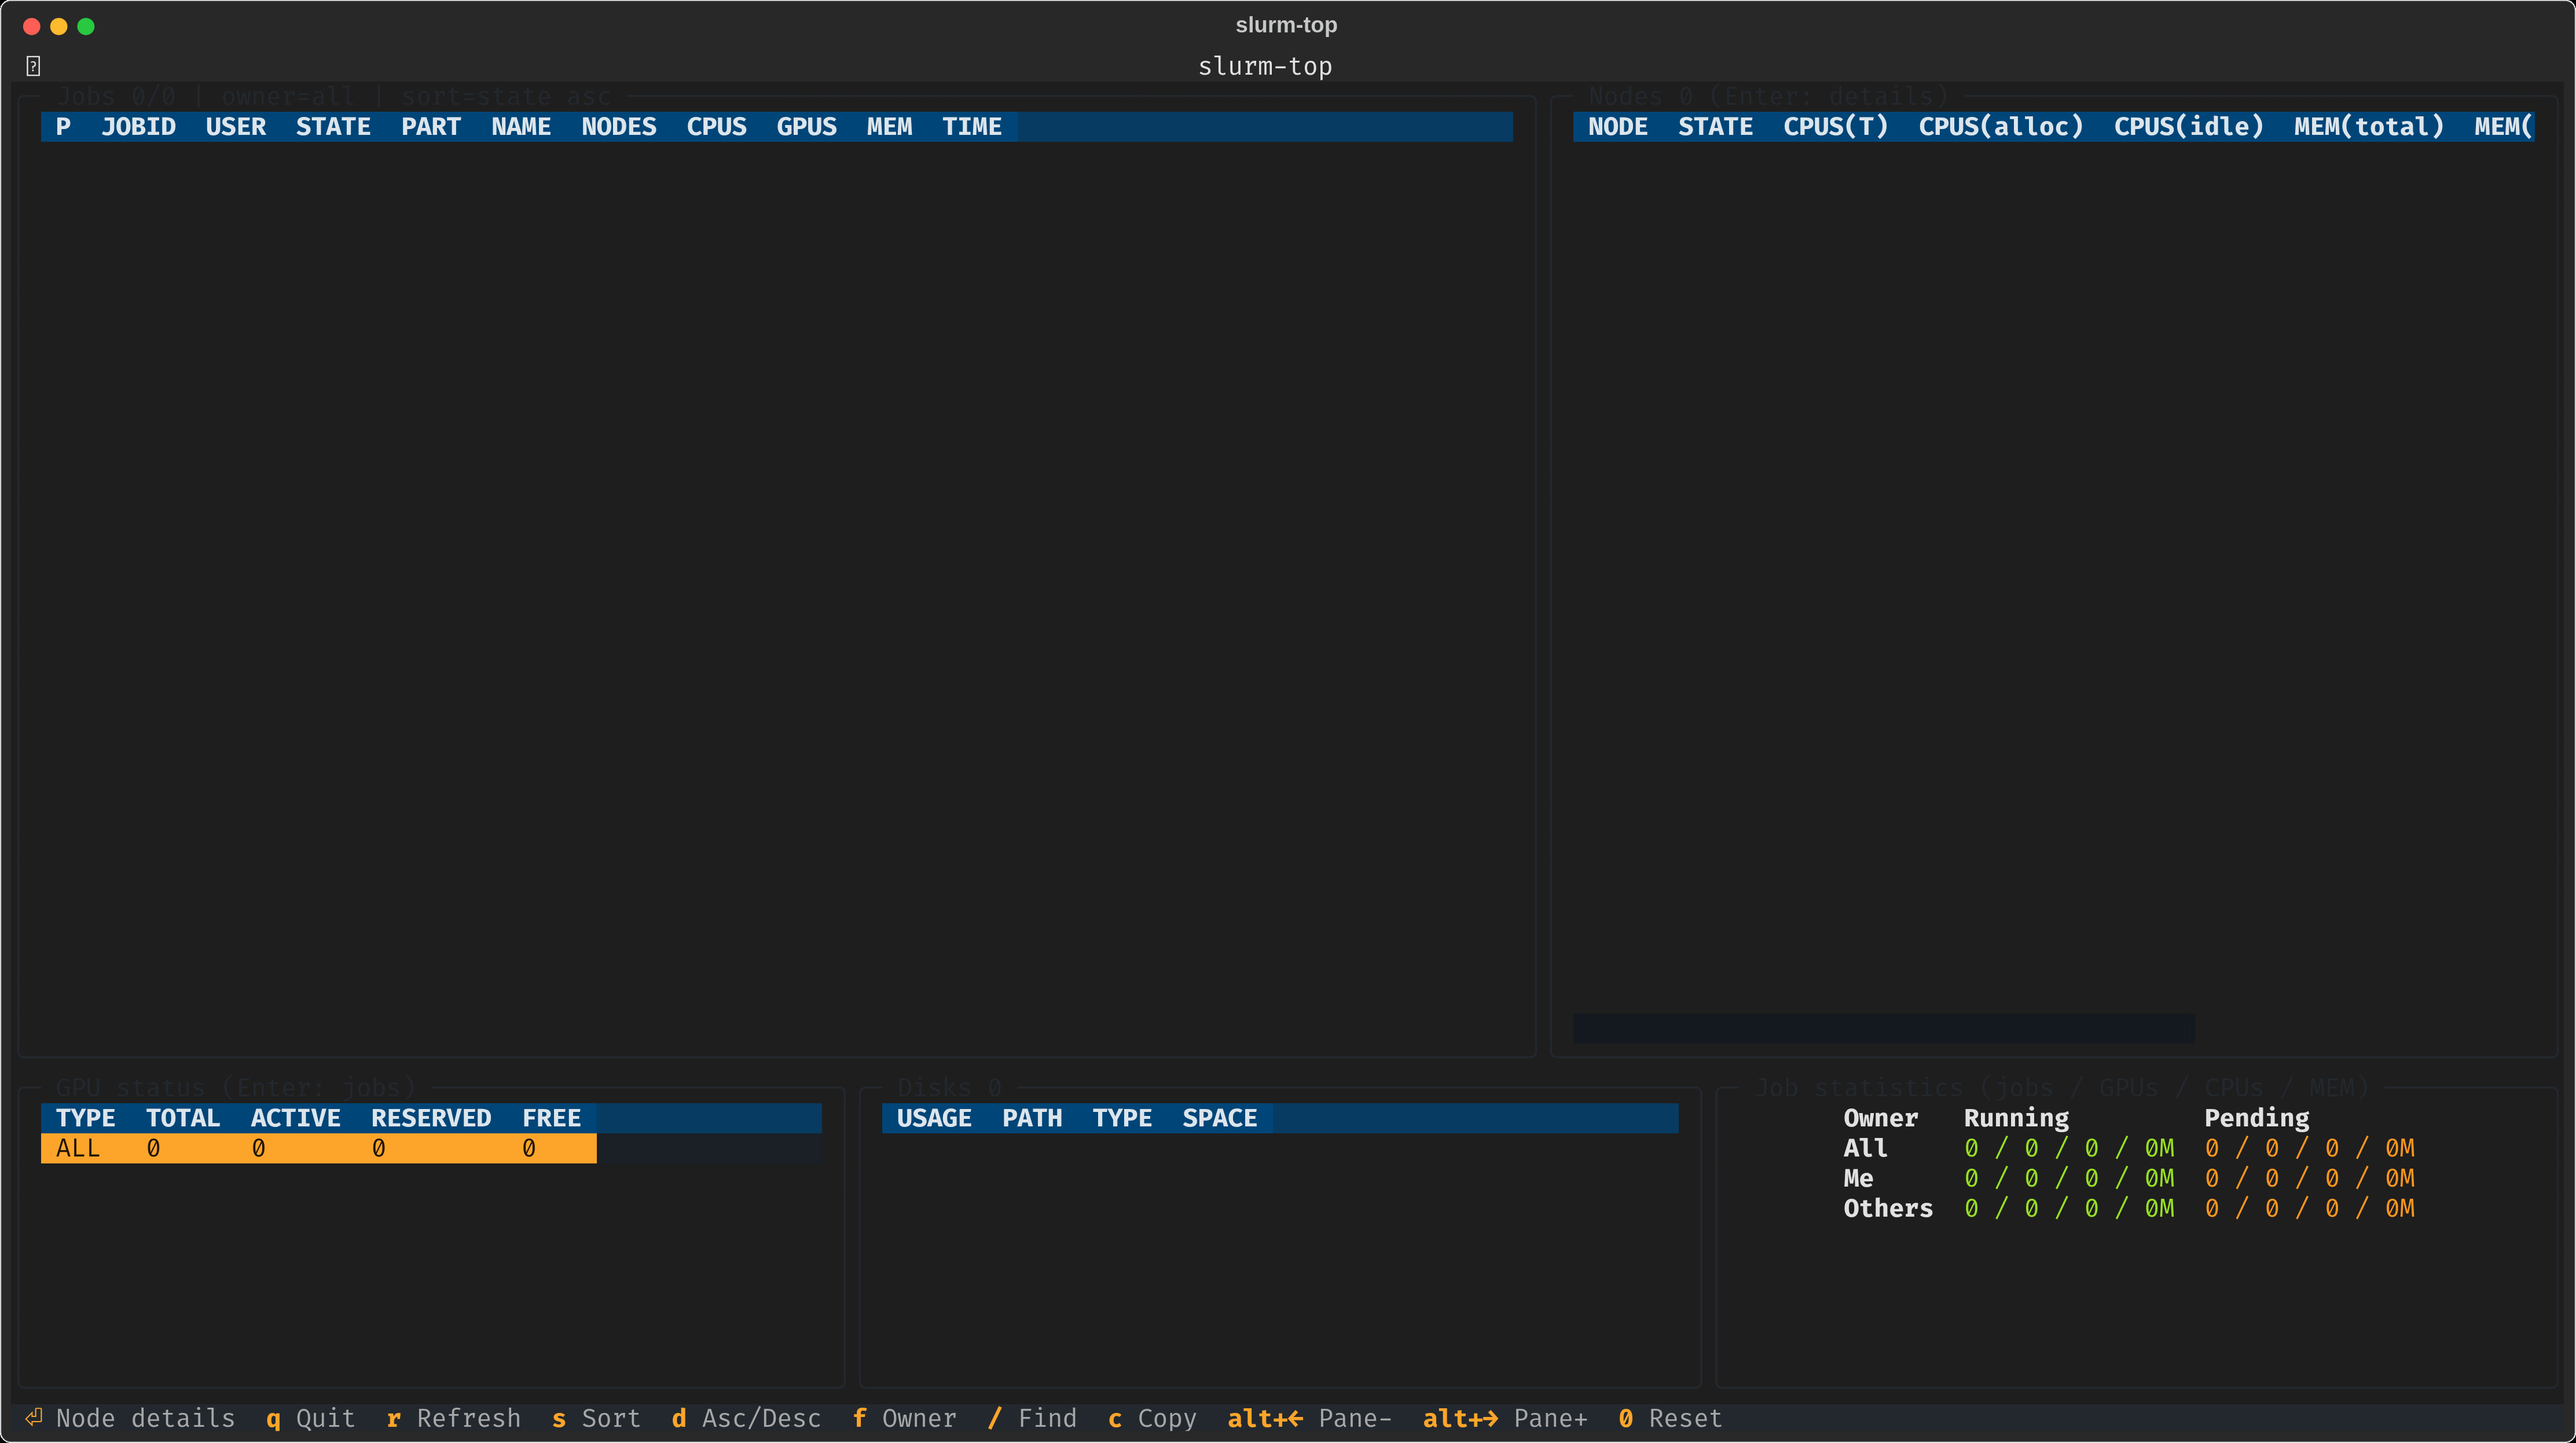
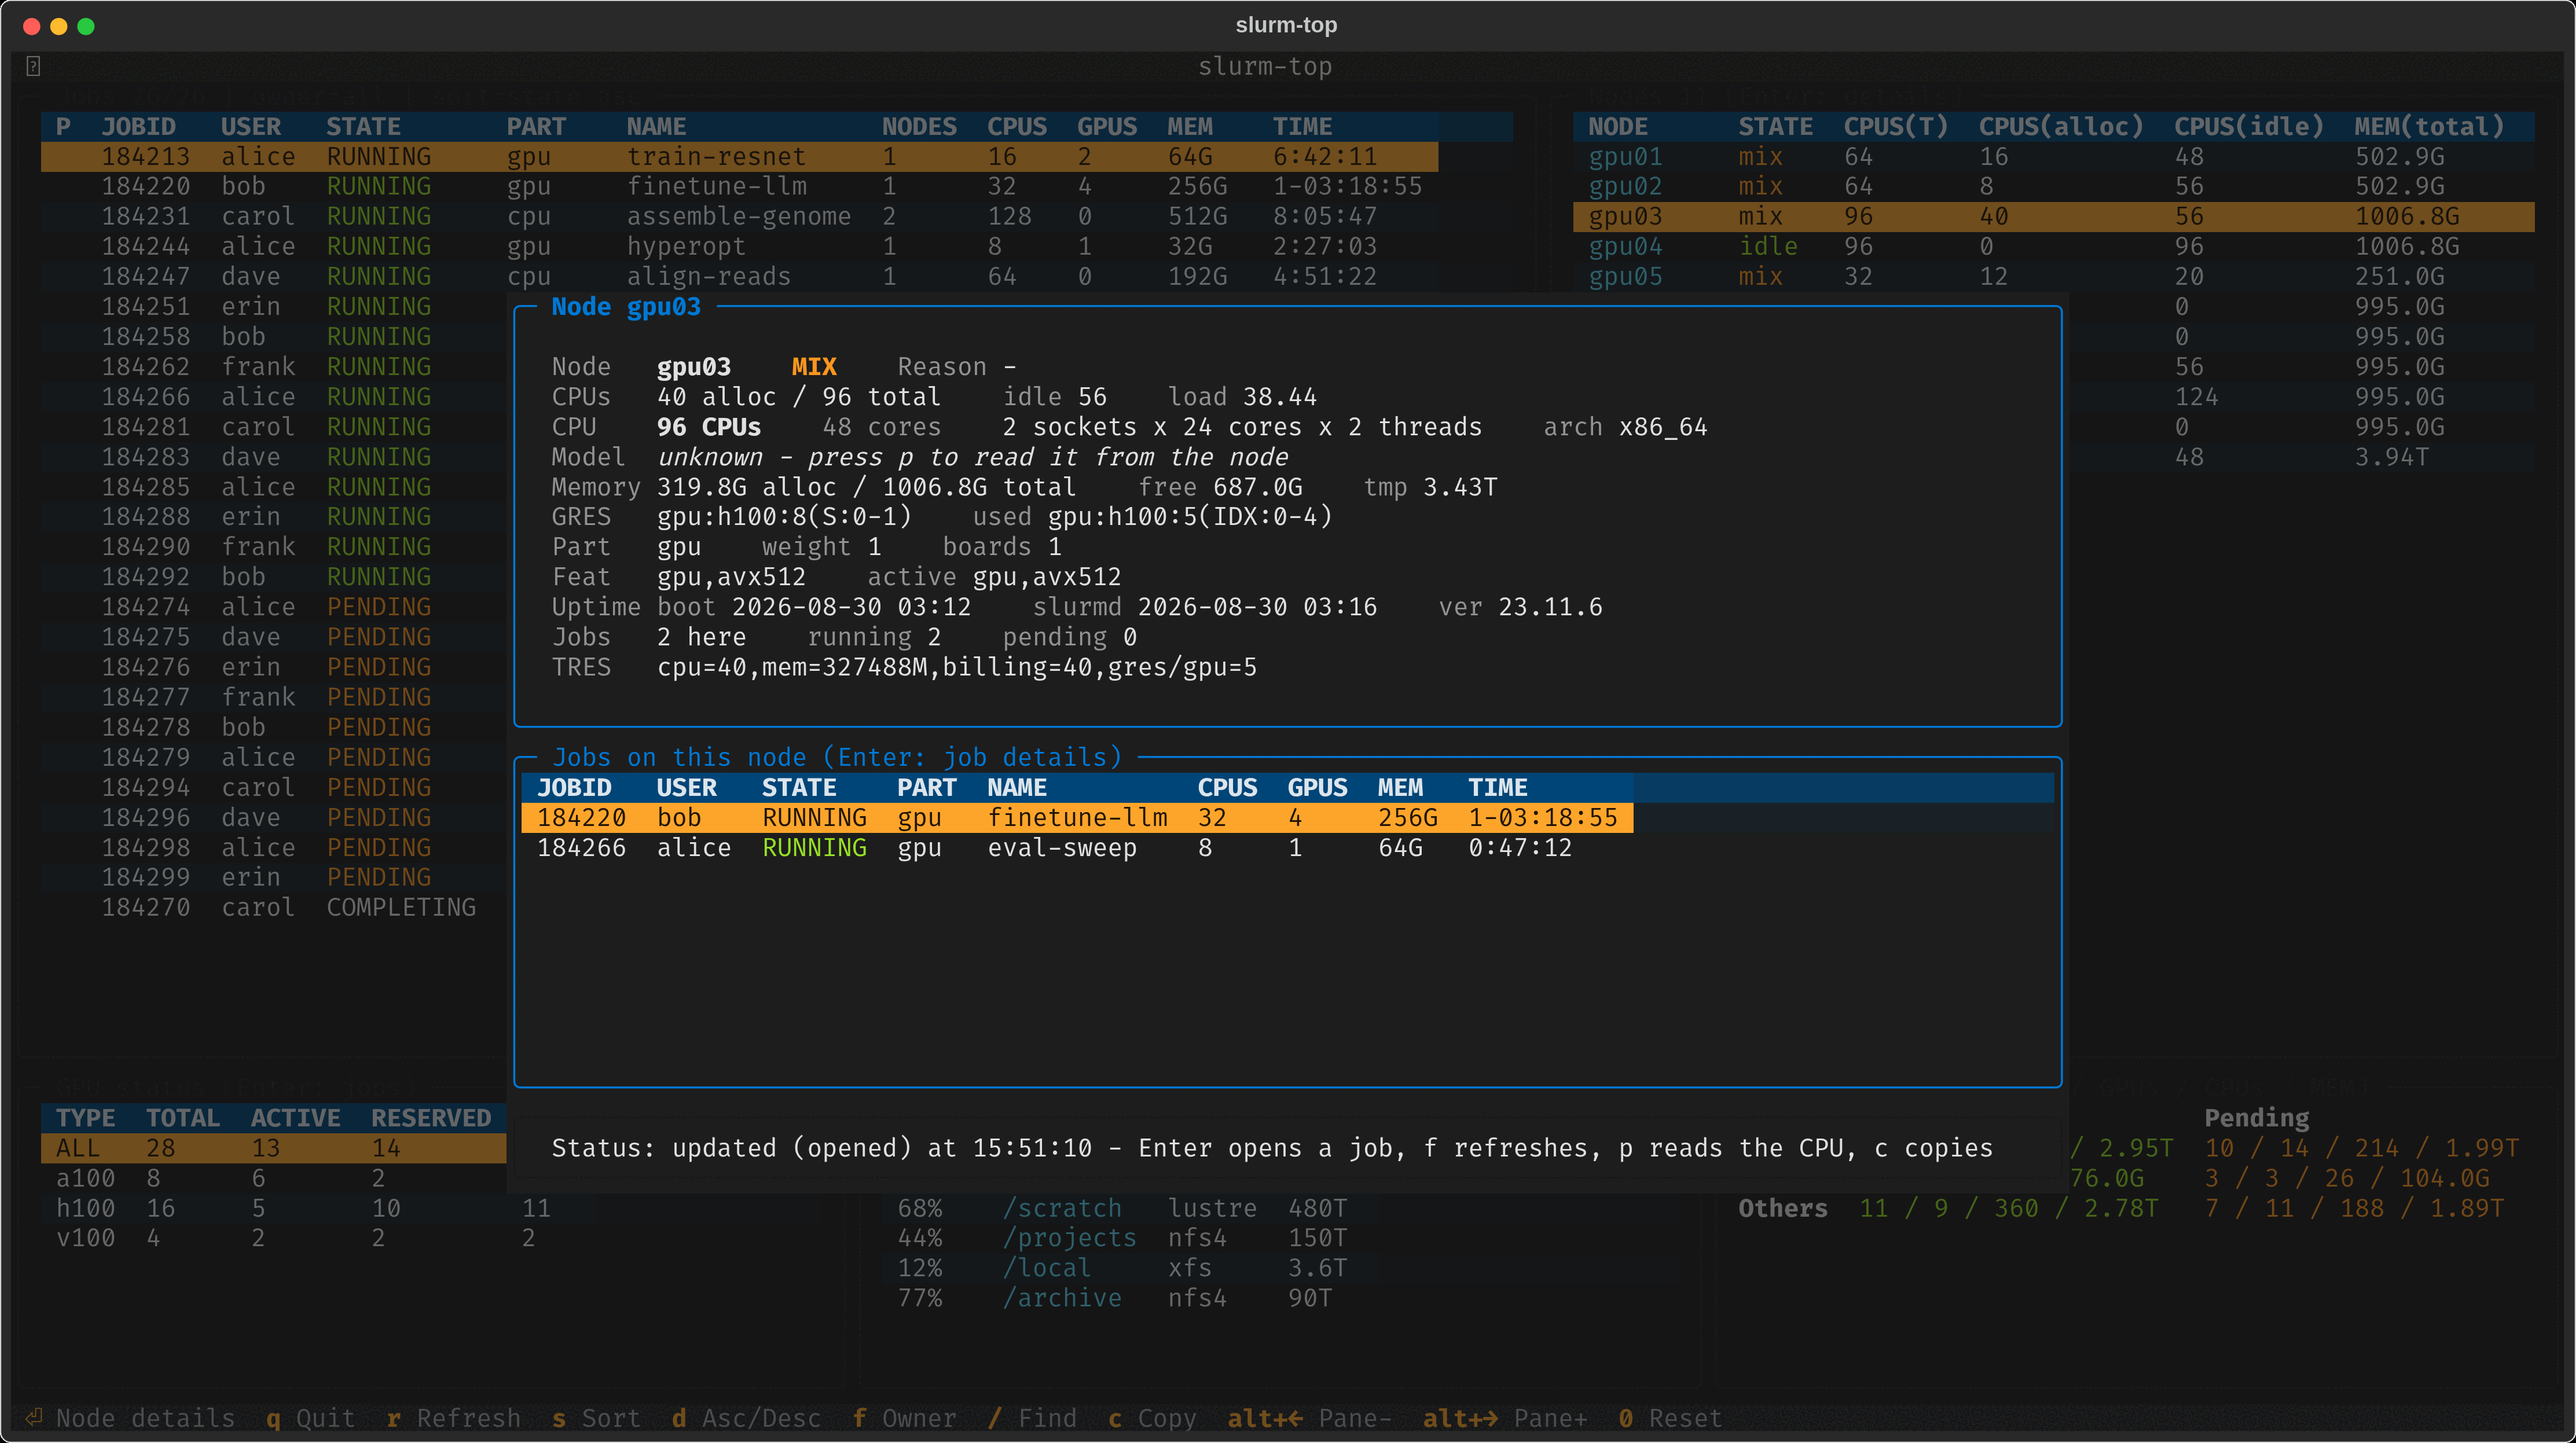
Wait for the fake cluster before photographing it
Three screenshots went out empty: node details, GPU jobs and the usage bars
were all captured against a dashboard with no rows in it, so the keypress that
should have opened each popup landed on an empty table and did nothing.

`shoot` gave the first refresh two seconds. Every fake command is a Python
interpreter start and four of them run per refresh, which is about 1.3s on an
NFS-backed checkout and more on a loaded machine - so the ceiling was under
the real cost and the scene simply went ahead without data. It now waits up to
a minute for jobs, nodes and disks to all arrive, and says which of the three
is still empty if they never do.

The waiting alone would not have caught it, though: an empty capture is a
valid PNG of a working dashboard, and nothing looked wrong until someone
opened the file. So each scene now declares the popup it must end on, and the
capture fails if it is not the one on screen.

diff --git a/tools/screenshots/capture_tui.py b/tools/screenshots/capture_tui.py
@@ -23,6 +23,7 @@ import shutil
 import subprocess
 import sys
 import tempfile
+import time
 from pathlib import Path
 
 HERE = Path(__file__).resolve().parent
@@ -182,6 +183,21 @@ async def scene_panel_resize(app, pilot):
     await pilot.pause(0.4)
 
 
+# The popup each scene has to end on. Without this check a scene whose
+# keypress landed on an empty table photographed the dashboard behind it: no
+# error, no empty file, just a screenshot quietly missing its subject.
+EXPECTED_SCREEN = {
+    "job-search": "JobSearchModal",
+    "job-details": "JobDetailsModal",
+    "job-usage": "JobDetailsModal",
+    "job-output": "JobOutputModal",
+    "node-details": "NodeDetailsModal",
+    "node-cpu": "NodeDetailsModal",
+    "gpu-jobs": "GpuJobsModal",
+    "copy-popup": "CopyModal",
+    "sort-picker": "SortPickerModal",
+}
+
 SCENES = {
     "overview": scene_overview,
     "job-search": scene_job_search,
@@ -200,6 +216,28 @@ SCENES = {
 }
 
 
+# How long to wait for the first refresh. Every fake command is a Python
+# interpreter start, and four of them run per refresh, so a second or two is
+# normal and a loaded machine takes longer. The old two-second ceiling was
+# under that on a bad day, and a scene that went ahead anyway pressed Enter on
+# an empty table.
+DATA_TIMEOUT = 60.0
+
+
+async def wait_for_data(app, timeout=DATA_TIMEOUT):
+    """Block until the first refresh has actually landed in all three tables."""
+    deadline = time.monotonic() + timeout
+    while time.monotonic() < deadline:
+        if app.jobs_view.jobs and app.nodes_view.nodes and app.disk_usage_view.disks:
+            return
+        await asyncio.sleep(0.05)
+    raise RuntimeError(
+        f"the fake cluster answered nothing within {timeout:.0f}s "
+        f"(jobs={len(app.jobs_view.jobs)} nodes={len(app.nodes_view.nodes)} "
+        f"disks={len(app.disk_usage_view.disks)}) - is PATH pointing at fake_cluster.py?"
+    )
+
+
 async def shoot(name, scene, out_svg):
     from slurm_top.app import SlurmHtop
 
@@ -207,12 +245,15 @@ async def shoot(name, scene, out_svg):
     async with app.run_test(size=TERMINAL_SIZE) as pilot:
         # The first refresh is a worker; wait for it before touching rows.
         await pilot.pause()
-        for _ in range(40):
-            if app.jobs_view.jobs:
-                break
-            await asyncio.sleep(0.05)
+        await wait_for_data(app)
         await pilot.pause()
         await scene(app, pilot)
+        expected = EXPECTED_SCREEN.get(name)
+        if expected is not None and type(app.screen).__name__ != expected:
+            raise RuntimeError(
+                f"{name}: expected {expected} on screen, found "
+                f"{type(app.screen).__name__} - the scene's keypress did not open it"
+            )
         out_svg.write_text(patch_svg(app.export_screenshot(title="slurm-top")))
 
 
